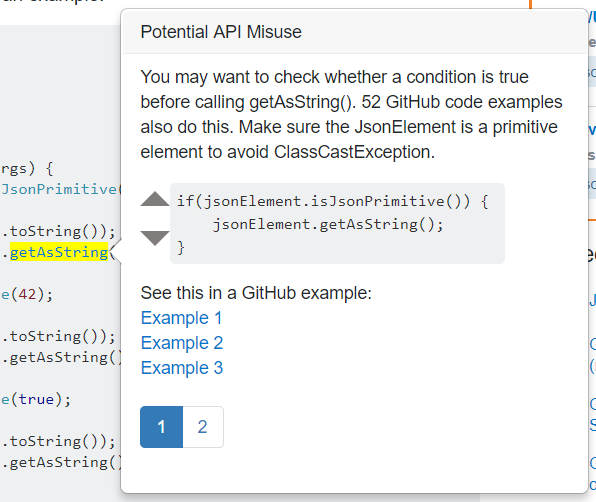
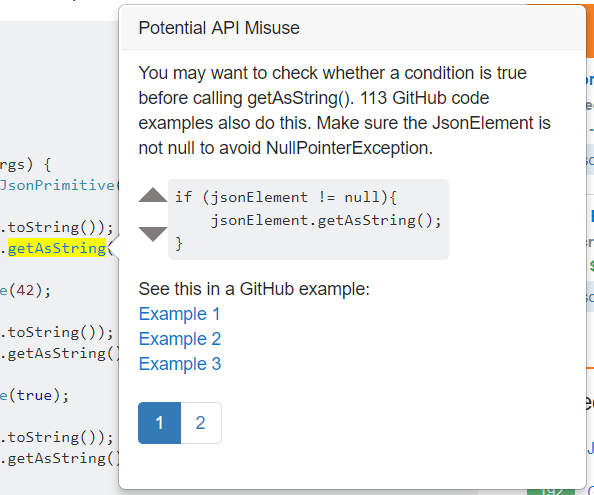
Changed the page order of the example popup

diff --git a/paper/motive.tex b/paper/motive.tex
@@ -24,14 +24,14 @@ The extension highlights the potential API misuse in the code snippet, as seen i
   \end{subfigure}
   \begin{subfigure}[a]{0.48\textwidth}
   \includegraphics[width=\textwidth]{json_ex2.PNG}
-  \caption{A page describing a way to avoid a {\tt ClassCastException} by checking whether the {\tt JsonElement} object is a primitive.} 
+  \caption{A page describing a way to avoid a {\tt NullPointerException} by checking whether the {\tt JsonElement} object is null.} 
   \vspace{.1in}
   \label{fig:page1}
   \end{subfigure}
   \hfill
   \begin{subfigure}[b]{0.48\textwidth}
   \includegraphics[width=\textwidth]{json_ex3.PNG}
-  \caption{A page describing a way to avoid a {\tt NullPointerException} by checking whether the {\tt JsonElement} object is null.}
+  \caption{A page describing a way to avoid a {\tt ClassCastException} by checking whether the {\tt JsonElement} object is a primitive.}
   \vspace{.1in}
   \label{fig:page2}
   \end{subfigure}
@@ -43,26 +43,26 @@ The extension highlights the potential API misuse in the code snippet, as seen i
 \footnotetext{https://stackoverflow.com/questions/34120882/gson-jsonelement-getasstring-vs-jsonelement-tostring}
 
 {\bf Stack Overflow Popup View.}
-Clicking on the highlighted text reveals a popup, as seen in Figure 3. The popup is populated with information about any required patterns in {\soa}'s database this particular API call does not adhere to. Alice notices that there are two pages of the popup, indicating two different usage patterns that this call does not follow, as shown in Figure~\ref{fig:page1} and Figure~\ref{fig:page2}. 
+Clicking on the highlighted text reveals a popup, as seen in Figure 2a and 2b. The popup is populated with information about any required patterns in {\soa}'s database this particular API call does not adhere to. Alice notices that there are two pages of the popup, indicating two different usage patterns that this call does not follow, as shown in Figure~\ref{fig:page1} and Figure~\ref{fig:page2}. 
 
-Alice inspects the first page (Figure~\ref{fig:page1}) and sees a warning message, automatically generated by {\soa} for that particular API misuse. She learns that she should check whether the {\tt JsonElement} object is a primitive before calling {\tt getAsString} in order to avoid a {\tt ClassCastException}. She notices that 52 other GitHub code examples use this pattern, which gives her a quantitative measurement of how prevalent this pattern is in real-world projects. Below this is a code example following the required pattern, generated by {\soa} based on the context of the SO example.
+Alice inspects the first page (Figure~\ref{fig:page1}) and sees a warning message, automatically generated by {\soa} for that particular API misuse. She learns that she should check whether the {\tt JsonElement} object is null before calling {\tt getAsString}. She notices that 113 other GitHub code examples use this pattern, which gives her a quantitative measurement of how prevalent this pattern is in real-world projects. Below this is a code example following the required pattern, generated by {\soa} based on the context of the SO example.
 
-Alice then inspects the second page (Figure~\ref{fig:page2}), and finds that it suggests a null check before calling {\tt getAsString}. She notices that this pattern has more than double the support of the previous pattern.\todo{Should we render the pages based on the prevalence of patterns?}
+Alice then inspects the second page (Figure~\ref{fig:page2}), and finds that it suggests to check whether the {\tt JsonElement} object is primitive before calling {\tt getAsString} to avoid a {\tt ClassCastException}. She notices that this pattern has less than half the support of the previous pattern.
 
 Curious to see the first pattern in context, Alice returns to the first page of the popup and clicks on the first link provided to her under "See this in a GitHub example."
 
 \begin{figure}
 \centering
   \begin{subfigure}[a]{0.48\textwidth}
-  \includegraphics[width=\textwidth]{json_primitive_gh1.PNG}
-  \caption{The first GitHub example for Figure 3a.} 
+  \includegraphics[width=\textwidth]{json_null_gh2.PNG}
+  \caption{The second GitHub example for Figure 2b.} 
   \vspace{.1in}
   \label{fig:github1}
   \end{subfigure}
   \hfill
   \begin{subfigure}[b]{0.48\textwidth}
-  \includegraphics[width=\textwidth]{json_null_gh2.PNG}
-  \caption{The second GitHub example for Figure 3b.}
+  \includegraphics[width=\textwidth]{json_primitive_gh1.PNG}
+  \caption{The first GitHub example for Figure 2c.}
   \vspace{.1in}
   \label{fig:github2}
   \end{subfigure}
@@ -71,9 +71,9 @@ Curious to see the first pattern in context, Alice returns to the first page of 
 \label{fig:github_examples}
 \end{figure}
 
-{\bf GitHub Example View.} When Alice clicks on one of the GitHub links, the file opens in a new tab and the view scrolls to where the API is called in the file, and the method in which this occurs is highlighted so Alice can easily find it, as seen in Figure~\ref{fig:github_examples}. The addition of a compilable code example that demonstrates the pattern in context can aid Alice in understanding how to use the pattern if it is unfamiliar to her. In this case, Alice finds herself redirected the method in a GitHub project seen in Figure 4a. She notices that the example uses a null check in conjunction with the primitive check, which makes sense to her after seeing that both were missing from the Stack Overflow code snippet.
+{\bf GitHub Example View.} When Alice clicks on one of the GitHub links, the file opens in a new tab and the view scrolls to where the API is called in the file, and the method in which this occurs is highlighted so Alice can easily find it, as seen in Figure~\ref{fig:github_examples}. The addition of a compilable code example that demonstrates the pattern in context can aid Alice in understanding how to use the pattern if it is unfamiliar to her. In this case, Alice finds herself redirected the method in a GitHub project seen in Figure 3a.
 
-Returning to the popup in Stack Overflow, Alice clicks on the second link provided for the second page to compare usage patterns in context. This link opens up to the GitHub method seen in Figure 4b. Unlike the one in Figure 4a, this example does not use the null check in conjunction with the primitive check. 
+Returning to the popup in Stack Overflow, Alice clicks on the second link provided for the second page to compare usage patterns in context. This link opens up to the GitHub method seen in Figure 3b. She notices that the example uses a null check in conjunction with the primitive check, which makes sense to her after seeing that both were missing from the Stack Overflow code snippet. However, she notes that the more commonly-used pattern only uses a null check.
 
-After seeing these two examples, Alice can infer that a null check is more necessary and is more common than the primitive check, based on the GitHub examples she has seen as well as the GitHub support indicated by the popup message. She upvotes the null check's pattern by clicking on the up-arrow on its page (see Figure 3b) to send the server her feedback on the patterns it gave her. 
+After seeing these two examples, Alice can infer that a null check is more necessary and is more common than the primitive check, based on the GitHub examples she has seen as well as the GitHub support indicated by the popup message. She upvotes the null check's pattern by clicking on the up-arrow on its page (see Figure 2b) to send the server her feedback on the patterns it gave her. 
 
